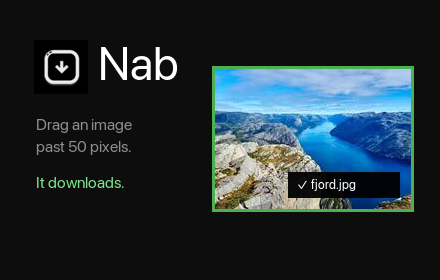
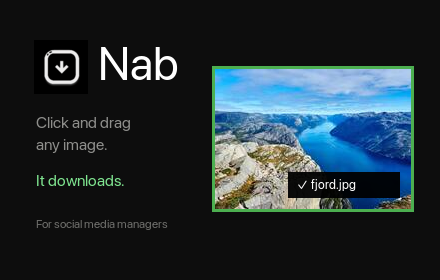
Lead listing copy with the audience, not the threshold
The 50-pixel threshold is an implementation detail users don't care about.
Short description, detailed description, manifest description, screenshot
caption and promo tile now open with "Click and drag any image" and name who
it's for.

The detailed description leads with the volume problem: four steps per save,
forty saves a day. README and test.html keep the exact threshold — those are
developer docs where the number matters.

"Effortlessly" is on the banned filler list in writing-instructions.md, so the
copy carries the meaning without the word.

Changed region(s): [[0.0591, 0.4, 0.2955, 0.5429], [0.0886, 0.7714, 0.3841, 0.8286], [0.0886, 0.6286, 0.2955, 0.6857]]

diff --git a/STORE-LISTING.md b/STORE-LISTING.md
@@ -15,39 +15,43 @@ Nab
 ## Short description (132 character limit)
 
 ```
-Drag any image to download it. No right-click, no menu, no dialog.
+Click and drag any image to download it instantly. Built for social media managers.
 ```
 
-66 characters.
+83 characters.
 
 ## Detailed description
 
 ```
-Grab an image, pull it 50 pixels, let go. It's in your Downloads folder.
+Click and drag any image. It's in your Downloads folder.
 
-That's the whole extension. No right-click, no submenu, no save dialog asking
-where to put it.
+Built for social media managers, and anyone else who saves forty images before
+lunch. Right-click, wait for the menu, find "Save image as," confirm the
+dialog — that's four steps and a few seconds, every single time. Do it forty
+times a day and it adds up to real minutes you'd rather spend on the work
+itself.
+
+Nab makes it one motion.
 
 HOW IT WORKS
 
-Click and hold any image. A blue outline appears. Drag — the outline glows as
-you go, then turns green once you've passed the threshold. Release and it
-downloads. Changed your mind? Press Escape, or just let go before the outline
-turns green.
+Click and hold any image. A blue outline appears. Drag, and the outline glows
+as you go, then turns green. Release and it downloads. Changed your mind? Press
+Escape, or let go before the outline turns green.
 
-WHAT YOU GET
+BUILT FOR VOLUME
 
 • Works on images from any source, including the CDN-hosted ones most sites use
 • Filenames come out clean — photo.jpg, not photo.jpg?w=800&q=75&fit=crop
-• Tells you when a download fails, and why
+• Tells you when a download fails, and why, instead of failing quietly
 • Stays out of the way: a normal click on a linked image still follows the link
 • No setup, no options page, no account
 
 WHAT IT DOESN'T DO
 
 Background images set through CSS, inline SVG, canvas elements, and video are
-outside what a drag on an <img> can reach. Bulk downloading isn't the idea
-either — Nab grabs the one image you dragged.
+outside what a drag on an image element can reach. Bulk downloading isn't the
+idea either — Nab grabs the one image you dragged.
 
 PRIVACY
 
@@ -91,7 +95,8 @@ English
 Shows a mid-drag on a photo-essay page: the outline green at the moment the
 threshold is crossed, a dashed arrow tracing the drag, the cursor at its end,
 and the real "✓ Downloading: img237.jpg" notification. Caption band burned in
-along the bottom.
+along the bottom: "Click and drag any image. It downloads." / "Built for social
+media managers."
 
 The drag was held open by dispatching `mousedown` and `mousemove` without a
 `mouseup`, which keeps the green state on screen long enough to capture. The
@@ -104,7 +109,8 @@ the viewport near 1272×771, so the 800px height comes from compositing the
 
 ### Promo tile
 
-Icon and wordmark left, a bordered photo right showing the green outline and a
+Icon and wordmark left with the "Click and drag any image / It downloads" copy
+and the audience line, a bordered photo right showing the green outline and a
 "✓ fjord.jpg" chip. Built on the same near-black as the screenshot caption band.
 
 A bright photo matters here: the first pass used the black-dog crop from the
